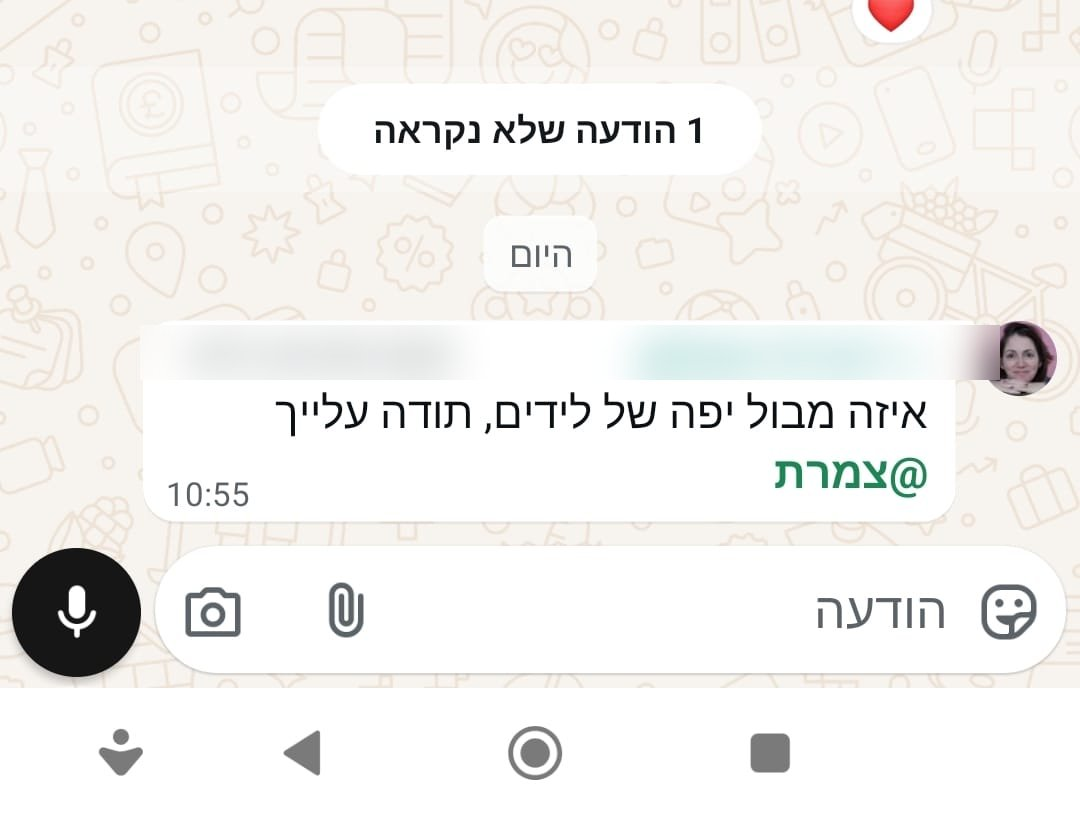
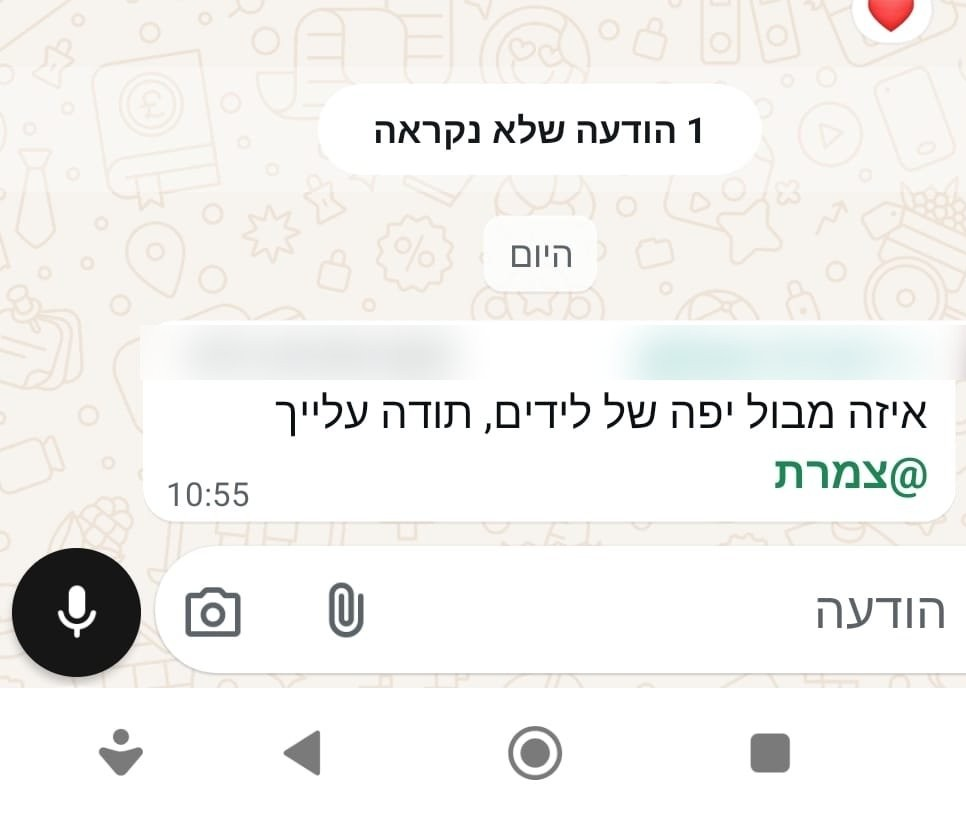
Testimonials: remove '10 פניות, 6 נסגרו', move Amir into its slot, crop reply block from Rinat's 'אוהבת את הלידים', crop faces from Rinat screenshots

diff --git a/index.html b/index.html
@@ -674,16 +674,15 @@ footer{
       <div class="scroller" id="testiScroller">
         <div class="item"><button type="button" class="frame frame-testi" data-lb="testi" aria-label="הגדלה: עדות לקוח"><img src="images/testimonial5.jpeg" alt="עדות לקוח" loading="lazy"><i class="zoom-hint" aria-hidden="true"><svg width="16" height="16" viewBox="0 0 24 24" fill="none" stroke="currentColor" stroke-width="2.4" stroke-linecap="round"><circle cx="11" cy="11" r="7"/><path d="M21 21l-4.3-4.3M11 8v6M8 11h6"/></svg></i></button></div>
         <div class="item"><button type="button" class="frame frame-testi" data-lb="testi" aria-label="הגדלה: עדות לקוח"><img src="images/testimonial3.jpg" alt="עדות לקוח" loading="lazy"><i class="zoom-hint" aria-hidden="true"><svg width="16" height="16" viewBox="0 0 24 24" fill="none" stroke="currentColor" stroke-width="2.4" stroke-linecap="round"><circle cx="11" cy="11" r="7"/><path d="M21 21l-4.3-4.3M11 8v6M8 11h6"/></svg></i></button></div>
-        <div class="item"><button type="button" class="frame frame-testi" data-lb="testi" aria-label="הגדלה: עדות לקוח"><img src="images/testimonial4.jpg" alt="עדות לקוח" loading="lazy"><i class="zoom-hint" aria-hidden="true"><svg width="16" height="16" viewBox="0 0 24 24" fill="none" stroke="currentColor" stroke-width="2.4" stroke-linecap="round"><circle cx="11" cy="11" r="7"/><path d="M21 21l-4.3-4.3M11 8v6M8 11h6"/></svg></i></button></div>
-        <div class="item"><button type="button" class="frame frame-testi" data-lb="testi" aria-label="הגדלה: עדות לקוח"><img src="images/testimonial1.jpg" alt="עדות לקוח" loading="lazy"><i class="zoom-hint" aria-hidden="true"><svg width="16" height="16" viewBox="0 0 24 24" fill="none" stroke="currentColor" stroke-width="2.4" stroke-linecap="round"><circle cx="11" cy="11" r="7"/><path d="M21 21l-4.3-4.3M11 8v6M8 11h6"/></svg></i></button></div>
         <div class="item"><button type="button" class="frame frame-testi" data-lb="testi" aria-label="הגדלה: עדות אמיר"><img src="images/quote-amir.jpg" alt="עדות אמיר" loading="lazy"><i class="zoom-hint" aria-hidden="true"><svg width="16" height="16" viewBox="0 0 24 24" fill="none" stroke="currentColor" stroke-width="2.4" stroke-linecap="round"><circle cx="11" cy="11" r="7"/><path d="M21 21l-4.3-4.3M11 8v6M8 11h6"/></svg></i></button></div>
+        <div class="item"><button type="button" class="frame frame-testi" data-lb="testi" aria-label="הגדלה: עדות לקוח"><img src="images/testimonial1.jpg" alt="עדות לקוח" loading="lazy"><i class="zoom-hint" aria-hidden="true"><svg width="16" height="16" viewBox="0 0 24 24" fill="none" stroke="currentColor" stroke-width="2.4" stroke-linecap="round"><circle cx="11" cy="11" r="7"/><path d="M21 21l-4.3-4.3M11 8v6M8 11h6"/></svg></i></button></div>
         <div class="item"><button type="button" class="frame frame-testi" data-lb="testi" aria-label="הגדלה: עדות נועה"><img src="images/quote-noa.jpg" alt="עדות נועה" loading="lazy"><i class="zoom-hint" aria-hidden="true"><svg width="16" height="16" viewBox="0 0 24 24" fill="none" stroke="currentColor" stroke-width="2.4" stroke-linecap="round"><circle cx="11" cy="11" r="7"/><path d="M21 21l-4.3-4.3M11 8v6M8 11h6"/></svg></i></button></div>
         <div class="item"><button type="button" class="frame frame-testi" data-lb="testi" aria-label="הגדלה: עדות רינת"><img src="images/quote-rinat1.jpg" alt="עדות רינת" loading="lazy"><i class="zoom-hint" aria-hidden="true"><svg width="16" height="16" viewBox="0 0 24 24" fill="none" stroke="currentColor" stroke-width="2.4" stroke-linecap="round"><circle cx="11" cy="11" r="7"/><path d="M21 21l-4.3-4.3M11 8v6M8 11h6"/></svg></i></button></div>
         <div class="item"><button type="button" class="frame frame-testi" data-lb="testi" aria-label="הגדלה: עדות רינת"><img src="images/quote-rinat2.jpg" alt="עדות רינת" loading="lazy"><i class="zoom-hint" aria-hidden="true"><svg width="16" height="16" viewBox="0 0 24 24" fill="none" stroke="currentColor" stroke-width="2.4" stroke-linecap="round"><circle cx="11" cy="11" r="7"/><path d="M21 21l-4.3-4.3M11 8v6M8 11h6"/></svg></i></button></div>
         <div class="item"><button type="button" class="frame frame-testi" data-lb="testi" aria-label="הגדלה: עדות רינת"><img src="images/quote-rinat3.jpg" alt="עדות רינת" loading="lazy"><i class="zoom-hint" aria-hidden="true"><svg width="16" height="16" viewBox="0 0 24 24" fill="none" stroke="currentColor" stroke-width="2.4" stroke-linecap="round"><circle cx="11" cy="11" r="7"/><path d="M21 21l-4.3-4.3M11 8v6M8 11h6"/></svg></i></button></div>
       </div>
       <div class="scroller-dots" id="testiDots">
-        <span class="active"></span><span></span><span></span><span></span><span></span><span></span><span></span><span></span><span></span>
+        <span class="active"></span><span></span><span></span><span></span><span></span><span></span><span></span><span></span>
       </div>
     </div>
   </div>
